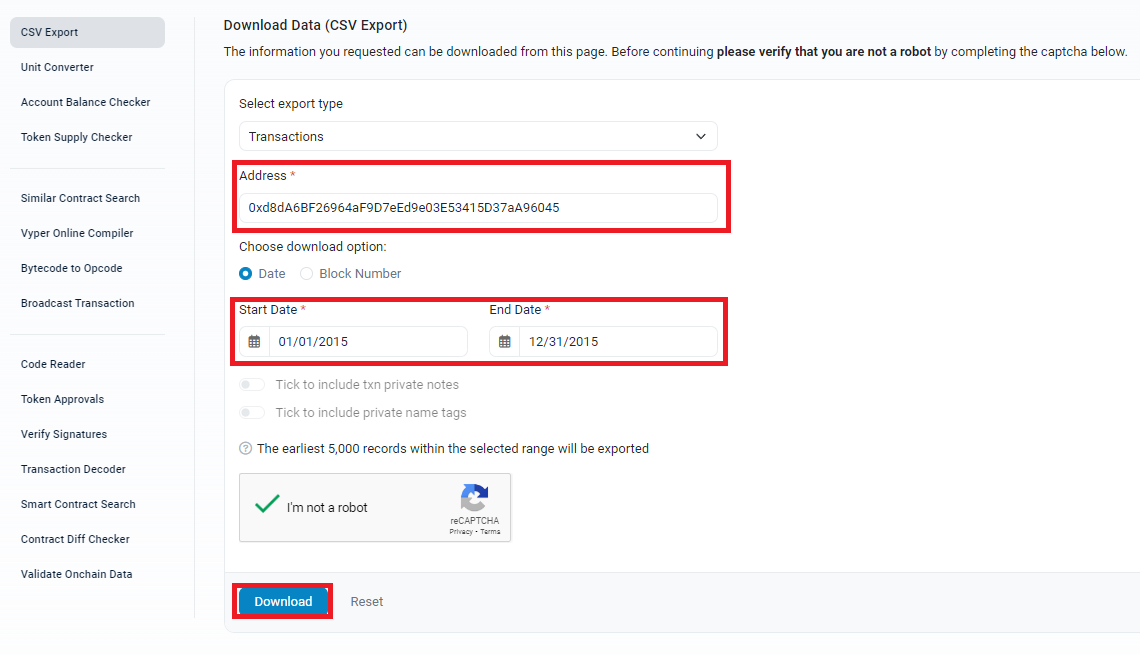
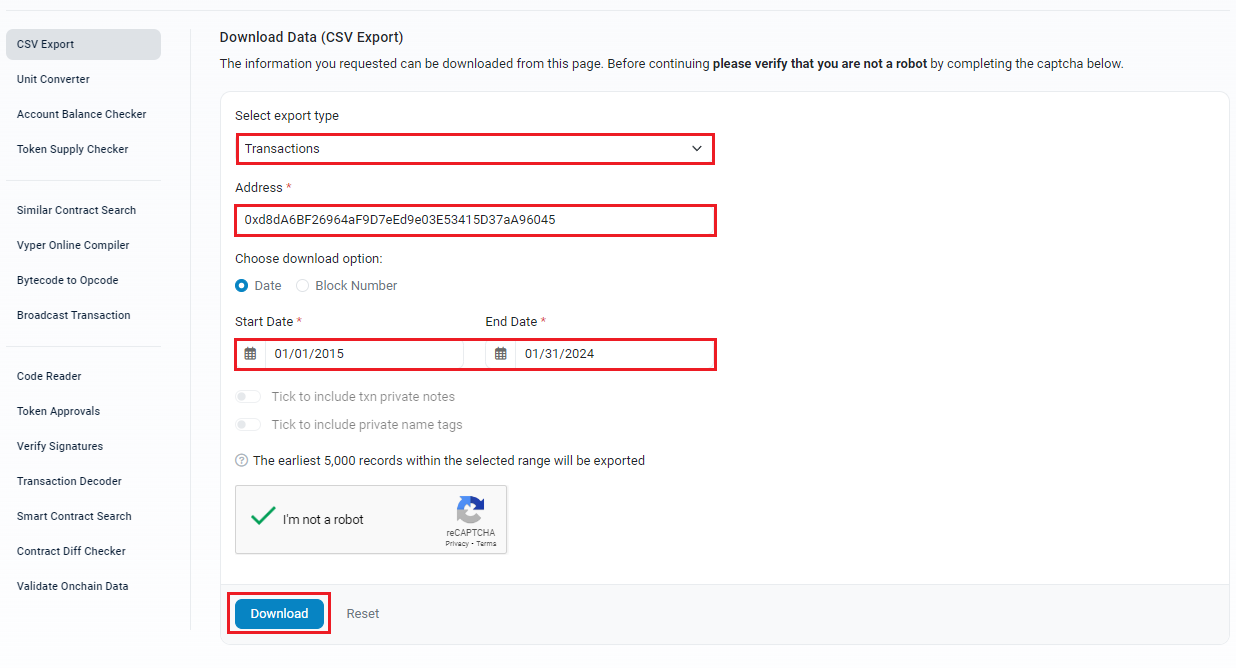
Update EtherscanHelp

diff --git a/src/pages/ImportDataPage/file-imports/help/EtherscanHelp.tsx b/src/pages/ImportDataPage/file-imports/help/EtherscanHelp.tsx
@@ -33,8 +33,7 @@ const steps = [
   {
     description: (
       <>
-        Input the address of your wallet, select the time range (or block range) and click on{" "}
-        <u>Download</u>
+        Input the address of your wallet, select a broad time range and click on <u>Download</u>
         .
         <br />
         <br />
@@ -48,7 +47,47 @@ const steps = [
         </a>
       </>
     ),
-    label: "Fill the form & download",
+    label: "Export normal transactions",
+  },
+  {
+    description: (
+      <>
+        Change export type to <i>Internal Transactions</i>, input the address of your wallet, select
+        a broad time range and click on <u>Download</u>
+        .
+        <br />
+        <br />
+        <a href="/app-images/help/etherscan/step3.png" target="_blank" rel="noreferrer">
+          <img
+            height={249}
+            width={433}
+            src="/app-images/help/etherscan/step3.png"
+            alt="Step visualization"
+          />
+        </a>
+      </>
+    ),
+    label: "Export internal transactions",
+  },
+  {
+    description: (
+      <>
+        Change export type to <i>ERC20 Transactions</i>, input the address of your wallet, select a
+        broad time range and click on <u>Download</u>
+        .
+        <br />
+        <br />
+        <a href="/app-images/help/etherscan/step4.png" target="_blank" rel="noreferrer">
+          <img
+            height={249}
+            width={433}
+            src="/app-images/help/etherscan/step4.png"
+            alt="Step visualization"
+          />
+        </a>
+      </>
+    ),
+    label: "Export ERC20 transactions",
   },
 ]
 

diff --git a/src/settings.ts b/src/settings.ts
@@ -7,7 +7,7 @@ export const EXCHANGE_FILES_LOCATION = "app-images/exchanges"
 export const BLOCKCHAIN_PAGES = 1
 export const BLOCKCHAIN_FILES_LOCATION = "app-images/blockchains"
 
-export const PARSER_IDS = ["binance", "mexc", "coinmama", "etherscan", "etherscan-erc20"]
+export const PARSER_IDS = ["etherscan", "binance", "mexc", "coinmama", "etherscan-erc20"]
 
 export const PARSERS: Record<ParserId, string> = {
   binance: "Binance",

diff --git a/src/pages/ImportDataPage/file-imports/FileImportHelp.tsx b/src/pages/ImportDataPage/file-imports/FileImportHelp.tsx
@@ -21,7 +21,7 @@ import { EtherscanHelp } from "./help/EtherscanHelp"
 export function FileImportHelp() {
   const { value: modalOpen, toggle: toggleModalOpen } = useBoolean(false)
 
-  const [tab, setTab] = useState("binance")
+  const [tab, setTab] = useState("etherscan")
 
   const handleTabChange = (event: React.SyntheticEvent, newValue: string) => {
     setTab(newValue)
